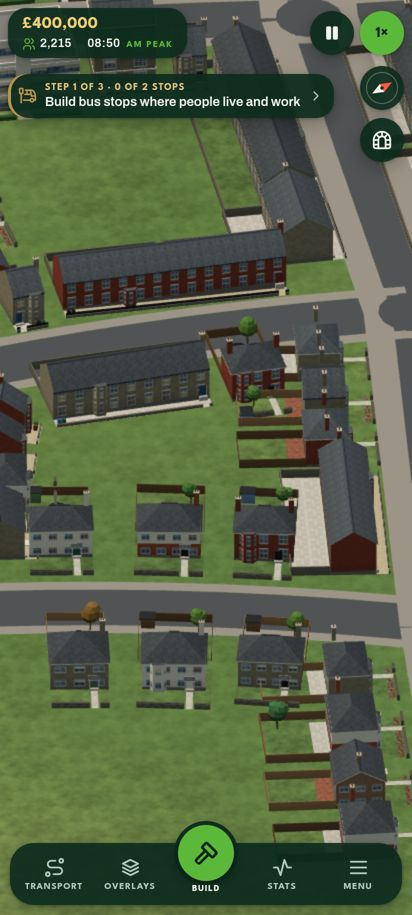
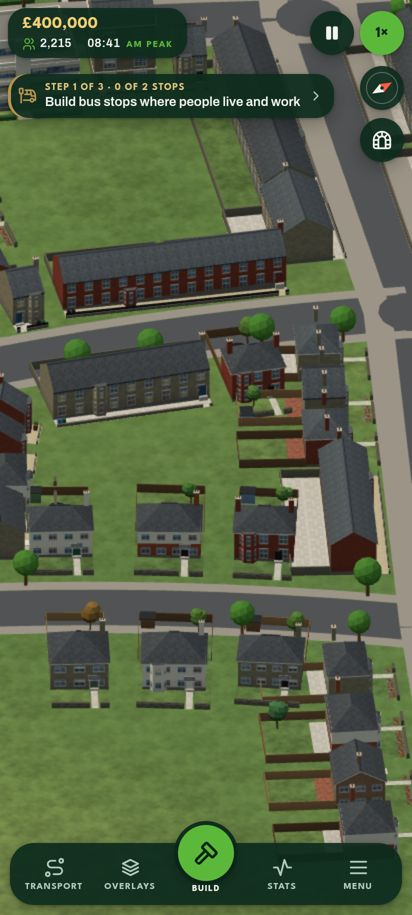
Dressed scenery: street trees on the verges of residential and main streets
Claude-Session: https://claude.ai/code/session_013W364Qf7cmYt1ejuVbvaHq

diff --git a/src/proto/game/dress.ts b/src/proto/game/dress.ts
@@ -10,7 +10,7 @@
 import * as THREE from 'three';
 import { mergeGeometries } from 'three/examples/jsm/utils/BufferGeometryUtils.js';
 import type { Lot, LotKind } from '../roads';
-import { settlementScene, type SceneBuilding } from '../worldmap/towns';
+import { settlementScene, type SceneBuilding, type SceneStreet } from '../worldmap/towns';
 import { LIVE_HALF, type WorldPlan } from '../worldmap/plan';
 
 export const DRESS_H = 700; // (view heights below which the scenery round the camera is dressed)
@@ -22,9 +22,10 @@ interface Host {
   plan: WorldPlan;
   make: Make; // buildgen's makeBuilding
   view: { nearShown(): { key: string; box: Box; place?: number }[]; setDressed(key: string, on: boolean): void };
+  trees?: { crown: THREE.BufferGeometry; trunk: THREE.BufferGeometry; crownMat: THREE.Material; trunkMat: THREE.Material }; // (street trees: the live town's own)
 }
 interface Box { x0: number; z0: number; x1: number; z1: number }
-interface Dressing { key: string; box: Box; todo: Lot[]; parts: Map<THREE.Material, THREE.BufferGeometry[]>; group: THREE.Group | null }
+interface Dressing { key: string; box: Box; todo: Lot[]; trees: number[]; parts: Map<THREE.Material, THREE.BufferGeometry[]>; group: THREE.Group | null }
 
 const KIND: Partial<Record<SceneBuilding['kind'], LotKind>> = { house: 'house', farm: 'house', terrace: 'terrace', shop: 'shop', flats: 'flats', office: 'office', tower: 'tower', church: 'civic', shed: 'industry' };
 const FRONT: Record<LotKind, number> = { house: 5, terrace: 2.5, shop: 1, flats: 3, office: 3, tower: 4, industry: 9, civic: 6 };
@@ -73,24 +74,63 @@ function lotsOf(list: SceneBuilding[]): Lot[] {
   return out;
 }
 
+// Trees along the verges of a place's residential and main streets (x, z, scale), a seeded
+// 13-21 m apart with gaps, clear of junctions, the streets' ends and the buildings' fronts.
+function streetTrees(streets: SceneStreet[], buildings: SceneBuilding[], junctions: { x: number; z: number; r: number }[], keep: (p: { x: number; z: number }) => boolean): number[] {
+  const out: number[] = [];
+  const clearOf = (x: number, z: number) => {
+    for (const j of junctions) if (Math.hypot(x - j.x, z - j.z) < j.r + 9) return false;
+    for (const b of buildings) {
+      if (Math.abs(b.x - x) > 30 || Math.abs(b.z - z) > 30) continue;
+      const co = Math.cos(b.rot), si = Math.sin(b.rot), dx = x - b.x, dz = z - b.z;
+      if (Math.abs(dx * co + dz * si) < b.w / 2 + 2 && Math.abs(-dx * si + dz * co) < b.d / 2 + 2) return false;
+    }
+    return true;
+  };
+  for (const st of streets) {
+    if (st.role !== 'street' && st.role !== 'main') continue;
+    const P = st.path, off = st.half - 0.7;
+    if (P.length < 2 || off < st.kerb + 0.5) continue;
+    const m = P[Math.floor(P.length / 2)];
+    if (!keep(m)) continue;
+    let run = 0, s = 0, next = 10 + hash(m.x, m.z) * 8;
+    for (let i = 0; i + 1 < P.length; i++) {
+      const a = P[i], b = P[i + 1], L = Math.hypot(b.x - a.x, b.z - a.z) || 1, ux = (b.x - a.x) / L, uz = (b.z - a.z) / L;
+      while (next < run + L) {
+        const t = next - run, x = a.x + ux * t, z = a.z + uz * t;
+        for (const side of [1, -1]) {
+          const tx = x - uz * off * side, tz = z + ux * off * side, r = hash(tx, tz);
+          if (r < 0.3 || !clearOf(tx, tz)) continue; // (gaps, as a real street has)
+          out.push(tx, tz, 0.5 + r * 0.25);
+        }
+        s++;
+        next += 13 + hash(x + s, z) * 8;
+      }
+      run += L;
+    }
+  }
+  return out;
+}
+
 export class Dresser {
   private on = new Map<string, Dressing>();
   stats = { tiles: 0, buildings: 0, ms: 0 };
   constructor(private host: Host) {}
 
   // The buildings a near tile (or a not-yet-live place) has in the scenery.
-  private lotsFor(t: { box: Box; place?: number }): Lot[] {
+  private lotsFor(t: { box: Box; place?: number }): { lots: Lot[]; trees: number[] } {
     const P = this.host.plan;
-    if (t.place !== undefined) return lotsOf(settlementScene(P, P.settlements[t.place]).buildings);
+    if (t.place !== undefined) { const sc = settlementScene(P, P.settlements[t.place]); return { lots: lotsOf(sc.buildings), trees: streetTrees(sc.streets, sc.buildings, sc.junctions, () => true) }; }
     const b = t.box, inTile = (p: { x: number; z: number }) => p.x >= b.x0 && p.x < b.x1 && p.z >= b.z0 && p.z < b.z1 && Math.max(Math.abs(p.x), Math.abs(p.z)) >= LIVE_HALF;
-    const lots: Lot[] = [];
+    const lots: Lot[] = [], trees: number[] = [];
     for (const s of P.grid.inBox(b)) {
       if (Math.max(Math.abs(s.x), Math.abs(s.z)) < LIVE_HALF) continue; // (the live play area's are the game's)
       // (a row is kept whole in the tile its first house is in, as the tile keeps a building by its centre)
-      const mine = settlementScene(P, s).buildings.filter(inTile);
-      lots.push(...lotsOf(mine));
+      const sc = settlementScene(P, s);
+      lots.push(...lotsOf(sc.buildings.filter(inTile)));
+      trees.push(...streetTrees(sc.streets, sc.buildings, sc.junctions, inTile)); // (a street's trees in the tile its middle is in, as its tarmac)
     }
-    return lots;
+    return { lots, trees };
   }
 
   update(v: { x: number; z: number; h: number }, budgetMs = 5) {
@@ -99,7 +139,7 @@ export class Dresser {
     // start on the tiles close under the view
     if (v.h < DRESS_H) {
       const reach = v.h * 1.1 + 200;
-      for (const t of shown) if (!this.on.has(t.key) && distToBox(v.x, v.z, t.box) < reach) this.on.set(t.key, { key: t.key, box: t.box, todo: this.lotsFor(t), parts: new Map(), group: null });
+      for (const t of shown) if (!this.on.has(t.key) && distToBox(v.x, v.z, t.box) < reach) { const f = this.lotsFor(t); this.on.set(t.key, { key: t.key, box: t.box, todo: f.lots, trees: f.trees, parts: new Map(), group: null }); }
     }
     // build, nearest tile first
     const busy = [...this.on.values()].filter((d) => !d.group).sort((a, b) => distToBox(v.x, v.z, a.box) - distToBox(v.x, v.z, b.box));
@@ -146,12 +186,23 @@ export class Dresser {
       group.add(mesh);
     }
     d.parts.clear();
+    // street trees: the live town's crown and trunk, instanced (two draw calls a tile)
+    const T = this.host.trees, n = d.trees.length / 3;
+    if (T && n) {
+      const m4 = new THREE.Matrix4(), q = new THREE.Quaternion(), v = new THREE.Vector3(), sc = new THREE.Vector3();
+      for (const [geo, mat, y, sy] of [[T.trunk, T.trunkMat, 2.45, 1.4], [T.crown, T.crownMat, 6.9, 1]] as const) { // (a taller trunk than the woods': the crown clears a pavement)
+        const im = new THREE.InstancedMesh(geo, mat, n);
+        for (let k = 0; k < n; k++) { const s = d.trees[k * 3 + 2]; im.setMatrixAt(k, m4.compose(v.set(d.trees[k * 3], y * s, d.trees[k * 3 + 1]), q, sc.set(s, s * sy, s))); }
+        im.castShadow = true; im.receiveShadow = true; im.computeBoundingSphere(); im.userData.cull = true; im.userData.shared = true;
+        group.add(im);
+      }
+    }
     d.group = group;
     this.host.scene.add(group);
     this.host.view.setDressed(d.key, true); // (the plain ones go in the same frame the real ones come)
   }
   private drop(d: Dressing) {
-    if (d.group) { this.host.scene.remove(d.group); for (const m of d.group.children) (m as THREE.Mesh).geometry.dispose(); }
+    if (d.group) { this.host.scene.remove(d.group); for (const m of d.group.children) { if (m.userData.shared) (m as THREE.InstancedMesh).dispose(); else (m as THREE.Mesh).geometry.dispose(); } }
     for (const list of d.parts.values()) for (const g of list) g.dispose();
     this.host.view.setDressed(d.key, false);
     this.on.delete(d.key);

diff --git a/src/proto/main.ts b/src/proto/main.ts
@@ -239,7 +239,7 @@ const trunks = new THREE.InstancedMesh(trunkGeo, trunkMat, MAXT);
 for (const m of [crowns, pines, trunks]) { m.castShadow = true; m.receiveShadow = true; m.userData.surface = true; if (!BIG) scene.add(m); } // (a big map draws its woods a tile at a time: regionView; surface: the underground view needn't draw them twice)
 // a 50 km map: the rest of the map beyond the live area, streamed in tiles from workers (worldmap/)
 const worldGame = WORLD ? new WorldGame({ scene, plan: WORLD, field: RELIEF, drape, look: LOOK, trees: { crown: crownGeo, pine: pineGeo, trunk: trunkGeo, crownMat, pineMat, trunkMat }, live: SAVED?.world?.live ?? [WORLD.start] }) : null;
-const dresser = worldGame ? new Dresser({ scene, plan: WORLD!, make: generate, view: worldGame.view }) : null;
+const dresser = worldGame ? new Dresser({ scene, plan: WORLD!, make: generate, view: worldGame.view, trees: { crown: crownGeo, trunk: trunkGeo, crownMat, trunkMat } }) : null;
 
 // Is a woodland tree standing somewhere it shouldn't? Roads and junctions answer through the land
 // registry (a spatial hash, so this looks only at claims near the tree); plots through `lots`.

diff --git a/docs/vernacular.md b/docs/vernacular.md
@@ -84,6 +84,7 @@ view is below 700 m, the near tiles close under it are **dressed**:
 - Terraces along a street side become one row, and runs of shops a parade.
 - The work is metered at 5 ms a frame, or 20% of a slow frame up to 30 ms. A 1 km town tile takes
   a few seconds on a phone.
+- Residential and main streets get trees on their verges, a seeded 13–21 m apart with gaps, clear of junctions and buildings (two instanced draw calls a tile).
 - Each tile is merged into one mesh per material, and only then are the tile's plain buildings
   (their own `bld` mesh, near detail only) hidden, in the same frame.
 - Dressed tiles more than 2.5 km from the view are let go.
